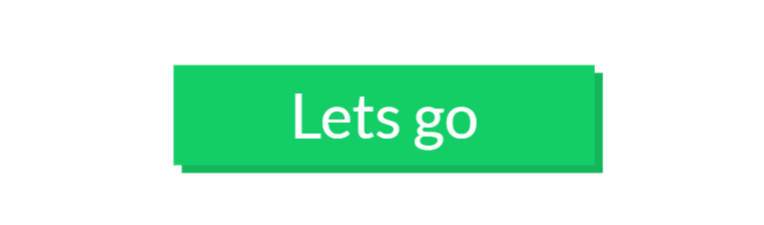
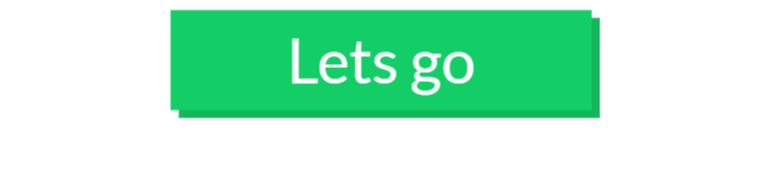
Layout style and more

Changed region(s): [[0.2107, 0.0294, 0.8128, 0.7941]]

diff --git a/Screens/MorningScreen.js b/Screens/MorningScreen.js
@@ -66,13 +66,6 @@ export class MorningScreen extends React.Component {
 
  }
 
- setRateSleep = (key, value) => {
-  if (value != "") {
-    this.userData[key] = value;
-    this.setState({gender: value})
-  }
-}
-
  submitQuestions = () => {
   let state = this.props.screenProps
   console.log(usedDictQuestions);
@@ -157,26 +150,25 @@ componentWillMount(){
    return (
 
 
-      <View style={styles.container}>
-        <NavigationBar
-          title="Daily summary"
-          snavigation = {this.props.navigation}
-        />
+      <View >
+
 
 
         {!this.state.question &&
-        <View>
-          <TouchableHighlight onPress={() => this.props.navigation.navigate('DailySummary')}>
+        <View style={styles.container}>
+                <NavigationBar
+          title="Morning Screen"
+          snavigation = {this.props.navigation}
+        />
             <AutoHeightImage
               style={styles.image}
               width={styleConstants.deviceWidth-20}
               source={require('../images/marvel/morning_screen1.png')}
             />
-          </TouchableHighlight>
-
+      
           <TouchableHighlight style={styles.progress} onPress={() => this.showQuestions() } >
             <AutoHeightImage
-              style={styles.image}
+              style={[styles.image, {marginTop:30}]}
               width={styleConstants.deviceWidth-20}
               source={require('../images/marvel/letsgo.png')}
             />
@@ -184,8 +176,11 @@ componentWillMount(){
         </View> }
 
         {this.state.question &&
-        <View>
-
+        <View style={styles.container2}>
+        <NavigationBar
+          title="Morning Screen"
+          snavigation = {this.props.navigation}
+        />
           <View style={styles.morningMessage}>
             <AutoHeightImage
               style={styles.image2}
@@ -304,7 +299,7 @@ componentWillMount(){
 
           <TouchableHighlight style={styles.progress} onPress={() => this.submitQuestions()} >
             <AutoHeightImage
-              style={styles.image}
+              style={styles.image3}
               width={styleConstants.deviceWidth-20}
               source={require('../images/marvel/letsgo.png')}
             />
@@ -322,6 +317,15 @@ const styles = StyleSheet.create({
     paddingRight: 10,
     justifyContent: 'center',
     backgroundColor: '#fff',
+    paddingBottom:40,
+  },
+  container2: {
+    paddingLeft: 10,
+    paddingRight: 10,
+    paddingTop:4,
+    justifyContent: 'center',
+    backgroundColor: '#fff',
+    paddingBottom:40,
   },
   containerloading: {
     flex: 1,
@@ -330,13 +334,16 @@ const styles = StyleSheet.create({
 },
   image: {
     paddingTop:10,
-    marginBottom:30,
     resizeMode: 'contain',
   },
   image2: {
     paddingTop:10,
     marginBottom:20,
     marginTop: 20,
+    resizeMode: 'contain',
+  },
+  image3: {
+    marginTop:10,
     resizeMode: 'contain',
   },
   morningMessage: {
@@ -378,7 +385,7 @@ const styles = StyleSheet.create({
   },
 
   rateSleepContainer: {
-    marginTop: 20,
+    marginTop: 10,
     width: styleConstants.deviceWidth - 20,
     flexDirection: 'row',
     justifyContent: 'center',

diff --git a/Screens/SettingsScreen.js b/Screens/SettingsScreen.js
@@ -1,5 +1,5 @@
 import React from 'react';
-import { Text, View, Image,StyleSheet} from 'react-native';
+import { Text, View, Image,StyleSheet, TouchableHighlight} from 'react-native';
 import styleConstants from '../Styles/Global.js';
 import NavigationBar from '../Components/Navigation';
 import AutoHeightImage from 'react-native-auto-height-image';
@@ -18,6 +18,14 @@ export class SettingsScreen extends React.Component {
           width={styleConstants.deviceWidth - 20}
           source={require('../images/marvel/settingsscreen.png')}
         />
+
+        <TouchableHighlight style={styles.progress} onPress={() => alert("You don't need this :) !")} >
+            <AutoHeightImage
+              style={styles.image}
+              width={styleConstants.deviceWidth-20}
+              source={require('../images/marvel/syncdevice.png')}
+            />
+        </TouchableHighlight>
       </View>
     )
   }
@@ -25,8 +33,8 @@ export class SettingsScreen extends React.Component {
 
 const styles = StyleSheet.create({
   container: {
-    flex: 0,
-    paddingTop:5,
+    flex: 1,
+    paddingTop:0,
     paddingLeft: 10,
     paddingRight: 10,
     justifyContent: 'center',

diff --git a/Screens/SummaryScreen.js b/Screens/SummaryScreen.js
@@ -39,14 +39,6 @@ export class SummaryScreen extends React.Component {
   }
 }
 
-      // <View style={styles.container}>
-      //   <Text>This is the Summary screen</Text>
-      //   <Button
-      //     title="Go to ProgressOverview"
-      //     onPress={() => this.props.navigation.navigate('Progress')}
-      //   />
-      // </View>
-
 const styles = StyleSheet.create({
   container: {
     paddingLeft: 10,

diff --git a/Components/Navigation.js b/Components/Navigation.js
@@ -46,7 +46,7 @@ class NavigationBar extends React.Component {
 const styles = StyleSheet.create({
   container: {
     height: 80,
-    paddingTop: 20,
+    paddingTop: 30,
     width: styleConstants.deviceWidth,
     marginLeft: -10,
     backgroundColor: styleConstants.themeBlue,
